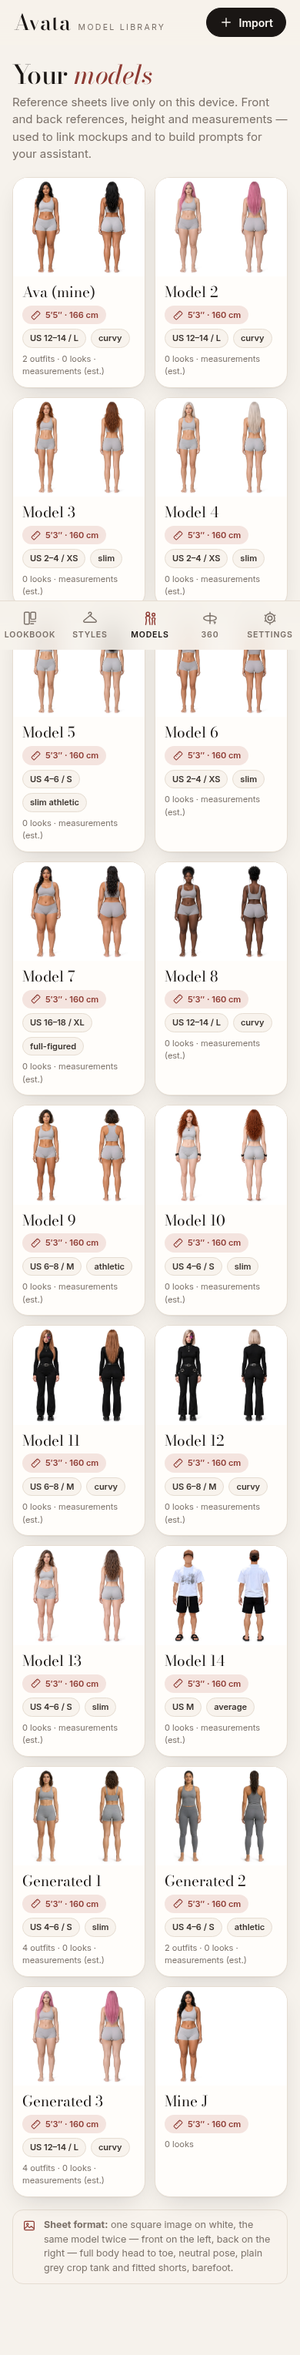
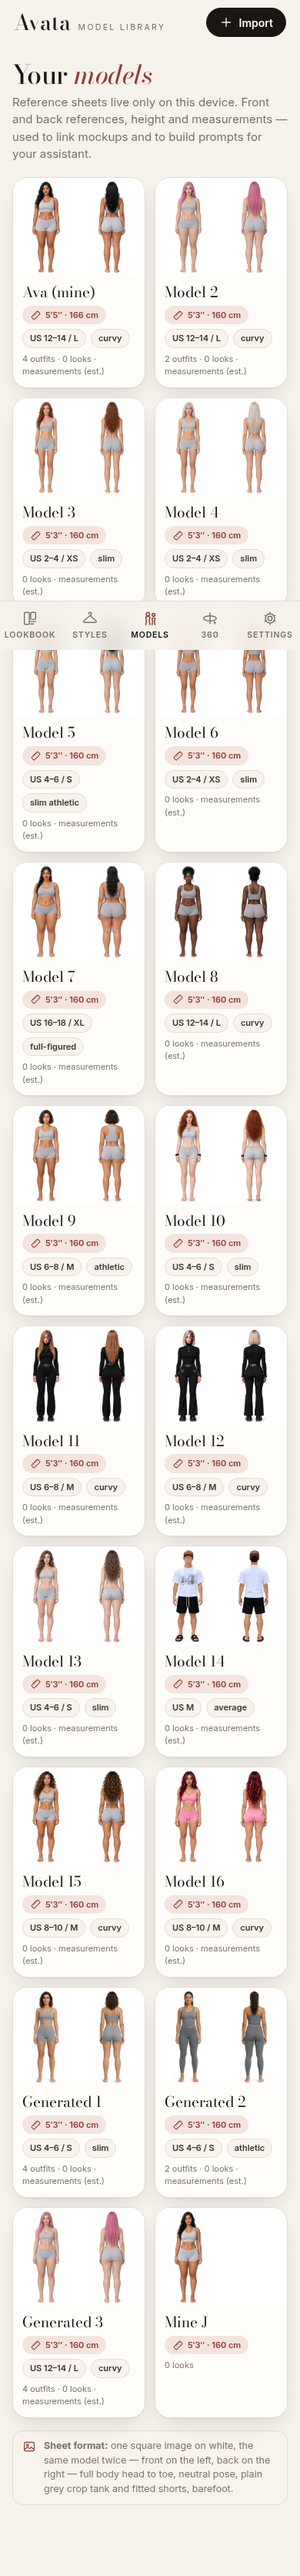
Model 1 gains Yoga set and Linen set (outfits Base, Tank & shorts, Yoga set, Linen set; assetRev a1d4c39dc847) and Model 2 gains Yoga set (outfits Base, Yoga set; assetRev d833e5ca404f) on their own records; existing installs refresh them in place, names and edits kept. Add starters Model 15 (starte

Changed region(s): [[0.0308, 0.0, 0.9538, 0.9627]]

diff --git a/js/starters.js b/js/starters.js
@@ -12,20 +12,28 @@ export const STARTERS = [
   {
     // re-added 2026-10-18 from Jordan's corrected 6-view sheet (real back three-quarter view); new id, so existing
     // installs gain her once via addNewStarters (the deleted old starter-model-5 is never brought back)
-    id: 'starter-exact-5', name: 'Model 1', file: 'exact-5', assetRev: 'b313fc006675', heightCm: 160, bodyType: 'curvy', size: '12–14 / L',
+    id: 'starter-exact-5', name: 'Model 1', file: 'exact-5', assetRev: 'a1d4c39dc847', heightCm: 160, bodyType: 'curvy', size: '12–14 / L',
     measurements: { bust: 40, waist: 32, hips: 44, inseam: 28 }, measureUnit: 'in', measurementsEstimated: true,
     note: 'Long wavy black hair, deep tan skin',
     // 2026-10-19 (Jordan): a second built-in outfit, Tank & shorts (generated with her own sheet as the reference); assetRev covers both
     outfits: [
       { id: 'base', name: 'Base', subtitle: 'Grey crop set', file: 'exact-5' },
       { id: 'tank-shorts', name: 'Tank & shorts', subtitle: 'Black tank · shorts · sneakers', file: 'exact-5-tank-shorts' },
+      // 2026-10-19 (Jordan): Generated 2's Yoga set and Generated 1's Linen set, generated on her own sheet
+      { id: 'yoga-set', name: 'Yoga set', subtitle: 'Rose yoga set', file: 'exact-5-yoga-set' },
+      { id: 'linen-set', name: 'Linen set', subtitle: 'Sage tank · linen pants', file: 'exact-5-linen-set' },
     ],
   },
   {
     // Models 6-16 added 2026-10-18 (8, 11, 15, 16 since removed) from Jordan's 6-view sheets (same pipeline as Model 1); existing installs gain them once
-    id: 'starter-exact-6', name: 'Model 2', file: 'exact-6', assetRev: '16bc8fba9dc6', heightCm: 160, bodyType: 'curvy', size: '12–14 / L',
+    id: 'starter-exact-6', name: 'Model 2', file: 'exact-6', assetRev: 'd833e5ca404f', heightCm: 160, bodyType: 'curvy', size: '12–14 / L',
     measurements: { bust: 40, waist: 31, hips: 44, inseam: 28 }, measureUnit: 'in', measurementsEstimated: true,
     note: 'Long straight pink hair, fair skin',
+    // 2026-10-19 (Jordan): Generated 2's Yoga set, generated on her own sheet; existing installs gain it in place (assetRev covers both)
+    outfits: [
+      { id: 'base', name: 'Base', subtitle: 'Grey crop set', file: 'exact-6' },
+      { id: 'yoga-set', name: 'Yoga set', subtitle: 'Rose yoga set', file: 'exact-6-yoga-set' },
+    ],
   },
   {
     id: 'starter-exact-7', name: 'Model 3', file: 'exact-7', assetRev: '5f4ee9be18ea', heightCm: 160, bodyType: 'slim', size: '2–4 / XS',
@@ -88,6 +96,17 @@ export const STARTERS = [
     id: 'starter-exact-22', name: 'Model 14', file: 'exact-22', assetRev: '7b1c9e05547b', heightCm: 160, bodyType: 'average', size: 'M',
     measurements: { bust: 40, waist: 32, hips: 39, inseam: 31 }, measureUnit: 'in', measurementsEstimated: true,
     note: 'Brown cap, white graphic tee, black shorts, slides (male model; face blurred in the sheet)',
+  },
+  // added 2026-10-19 from Jordan's 6-view sheets (same pipeline); new stable ids exact-23, 24 (15 and 16 stay retired), labels Model 15-16; existing installs gain them once
+  {
+    id: 'starter-exact-23', name: 'Model 15', file: 'exact-23', assetRev: 'd5c10514d239', heightCm: 160, bodyType: 'curvy', size: '8–10 / M',
+    measurements: { bust: 37, waist: 28, hips: 41, inseam: 29 }, measureUnit: 'in', measurementsEstimated: true,
+    note: 'Long curly brown hair with caramel highlights, tan skin, grey crop set',
+  },
+  {
+    id: 'starter-exact-24', name: 'Model 16', file: 'exact-24', assetRev: 'f8de9ba57c27', heightCm: 160, bodyType: 'curvy', size: '8–10 / M',
+    measurements: { bust: 37, waist: 28, hips: 41, inseam: 29 }, measureUnit: 'in', measurementsEstimated: true,
+    note: 'Long wavy burgundy hair with pink streaks, clear glasses, fair skin, pink crop set',
   },
   {
     // Generated 1 (added 2026-10-18): a generated fictional model with four built-in outfits (her own Generated section).

diff --git a/sw.js b/sw.js
@@ -3,7 +3,7 @@
 // offline fallback) so a new deploy is never served stale; big images/fonts are cache-first. Cross-origin requests
 // (only the optional BYOK APIs) are never touched. skipWaiting + clients.claim, so a new version takes over at once;
 // js/update.js then reloads the page when it's safe.
-const VERSION = '2026.10.19-053656-5664f6d';
+const VERSION = '2026.10.19-075841-c217703';
 const CACHE = `avata-${VERSION}`;
 const SHELL = [
   './', 'index.html', 'styles.css', 'manifest.webmanifest',
@@ -13,7 +13,7 @@ const SHELL = [
   'assets/samples/sketch-tank.svg', 'assets/samples/sketch-short.svg', 'assets/samples/sketch-set.svg',
   'assets/fonts/bodoni-moda.woff2', 'assets/fonts/bodoni-moda-italic.woff2',
   'icons/icon-192.png', 'icons/icon-512.png', 'icons/apple-touch-icon.png', 'icons/favicon-64.png',
-  ...[...[5, 6, 7, 9, 10, 12, 13, 14, 17, 18, 19, 20, 21, 22].map(n => `exact-${n}`), 'exact-5-tank-shorts', 'generated-1', 'generated-1-summer-denim', 'generated-1-sundress', 'generated-1-linen-set', 'generated-2', 'generated-2-yoga-set', 'generated-3', 'generated-3-turtleneck', 'generated-3-slip-dress', 'generated-3-tank-shorts'].flatMap(m => ['sheet', 'front', 'back', 'thumb'].map(k => `assets/models/${m}-${k}.webp`)),
+  ...[...[5, 6, 7, 9, 10, 12, 13, 14, 17, 18, 19, 20, 21, 22, 23, 24].map(n => `exact-${n}`), 'exact-5-tank-shorts', 'exact-5-yoga-set', 'exact-5-linen-set', 'exact-6-yoga-set', 'generated-1', 'generated-1-summer-denim', 'generated-1-sundress', 'generated-1-linen-set', 'generated-2', 'generated-2-yoga-set', 'generated-3', 'generated-3-turtleneck', 'generated-3-slip-dress', 'generated-3-tank-shorts'].flatMap(m => ['sheet', 'front', 'back', 'thumb'].map(k => `assets/models/${m}-${k}.webp`)),
 ];
 // cache:'reload' bypasses the HTTP cache (GitHub Pages sends max-age=600) so a new version never precaches old files
 self.addEventListener('install', e => { self.skipWaiting(); e.waitUntil(caches.open(CACHE).then(c => c.addAll(SHELL.map(u => new Request(u, { cache: 'reload' }))))); });

diff --git a/js/app.js b/js/app.js
@@ -10,7 +10,7 @@ import { renderSpin } from './spin-view.js';
 import { initUpdates } from './update.js';
 
 // VERSION is stamped automatically by the pre-commit hook (.githooks/pre-commit). Do not edit by hand.
-export const VERSION = '2026.10.19-053656-5664f6d';
+export const VERSION = '2026.10.19-075841-c217703';
 
 const TITLES = { looks: 'Lookbook', 'import-looks': 'Import mockups', styles: 'Catalog', style: 'Style', 'style-edit': 'Style', models: 'Model Library', model: 'Model', 'import-model': 'Import model', studio: 'Prompt builder', spin: '360 spin', settings: 'Settings' };
 const TAB_OF = { looks: 'looks', 'import-looks': 'looks', styles: 'styles', style: 'styles', 'style-edit': 'styles', models: 'models', model: 'models', 'import-model': 'models', studio: 'models', spin: 'spin', settings: 'settings' };

diff --git a/tools/e2e_starters.py b/tools/e2e_starters.py
@@ -2,7 +2,7 @@
 
 On 2026-10-18 Jordan removed Models 1-4, 8, 11, 15 and 16. The rest were renumbered by name only (stable ids exact-5, 6, 7,
 9, 10, 12, 13, 14 = Model 1-8; relabelStarters() renames default-named records once, user names kept) and exact-17 was added as
-Model 9, then exact-18..22 as Model 10-14. Shipped: Model 1-14 (Model 1 with 2 outfits: Base, Tank & shorts), Generated 1 (4 outfits), Generated 2 (2 outfits), Generated 3 (Model 2 in black, 4 outfits).
+Model 9, then exact-18..22 as Model 10-14, then exact-23, 24 as Model 15-16. Shipped: Model 1-16 (Model 1 with 4 outfits: Base, Tank & shorts, Yoga set, Linen set; Model 2 with Base, Yoga set), Generated 1 (4 outfits), Generated 2 (2 outfits), Generated 3 (Model 2 in black, 4 outfits).
 On 2026-10-19 the Photorealistic section was removed: Photoreal 1 (old Model 2) and Photoreal 2 are dropped once like the removed exact models
 (their app-seeded sample looks go, the user's own looks are kept detached); existing Model 1 records gain the Tank & shorts outfit in place (user edits kept). Every upgrade scenario checks that the removed starters' records are dropped once
 (even renamed ones), are never re-added, and that user-created models stay untouched; the user's own looks of a removed
@@ -24,7 +24,10 @@ H) Generated 2 release (1de7a72, the last one live): Models 10-14 (exact-18..22)
 I) Models 10-14 release (2e814c1): Generated 3 added once with 4 outfits; renamed Model 2 and user model
    untouched; model page outfit chips; relaunch idempotent; a deleted Generated 3 is never re-added.
 J) Generated 3 + Photoreal 2 release (5664f6d, the last one live): renamed Photoreal 1 and Photoreal 2 dropped once, a look on Photoreal 2
-   kept detached; renamed Model 1 gains Tank & shorts (name kept, model page chips); Generated 3 kept; idempotent; never re-added."""
+   kept detached; renamed Model 1 gains Tank & shorts (name kept, model page chips); Generated 3 kept; idempotent; never re-added.
+K) Model 1 Tank & shorts release (c217703, the last one live): Model 1 gains Yoga set + Linen set and Model 2 gains Yoga set in place
+   (renamed, edits kept), Models 15-16 (exact-23, 24) added once, everything else untouched.
+"""
 import hashlib, json, pathlib, re, shutil, socket, subprocess, sys, tempfile, time, io, tarfile
 from playwright.sync_api import sync_playwright
 
@@ -35,7 +38,7 @@ def site(ref):
   return d
 def sha(b): return hashlib.sha256(b).hexdigest()
 K = ('sheet', 'front', 'back', 'thumb')
-KEEP = [5, 6, 7, 9, 10, 12, 13, 14, 17, 18, 19, 20, 21, 22]; REMOVED = [1, 2, 3, 4, 8, 11, 15, 16]   # stable ids; KEEP is labelled Model 1-14 in this order
+KEEP = [5, 6, 7, 9, 10, 12, 13, 14, 17, 18, 19, 20, 21, 22, 23, 24]; REMOVED = [1, 2, 3, 4, 8, 11, 15, 16]   # stable ids; KEEP is labelled Model 1-14 in this order
 LABEL = {f'starter-exact-{n}': f'Model {i + 1}' for i, n in enumerate(KEEP)}
 OLD_DEFAULT = {f'starter-exact-{n}': f'Model {n}' for n in KEEP if n < 17}   # names before the relabel
 def relabeled(rec):   # what relabelStarters() makes of a stored record
@@ -44,15 +47,17 @@ REMOVED_IDS = [f'starter-exact-{n}' for n in REMOVED] + ['starter-photoreal-1', 
 NEW_EXACT = [f'starter-exact-{n}' for n in KEEP if n >= 17]   # added after the relabel: Model 9 (exact-17), Model 10-14 (exact-18..22)
 GEN_OUTFITS = [('base', 'Base', 'generated-1'), ('summer-denim', 'Summer denim', 'generated-1-summer-denim'), ('sundress', 'Sundress', 'generated-1-sundress'), ('linen-set', 'Linen set', 'generated-1-linen-set')]
 GEN2_OUTFITS = [('base', 'Base', 'generated-2'), ('yoga-set', 'Yoga set', 'generated-2-yoga-set')]
-M1_OUTFITS = [('base', 'Base', 'exact-5'), ('tank-shorts', 'Tank & shorts', 'exact-5-tank-shorts')]
+M1_OUTFITS = [('base', 'Base', 'exact-5'), ('tank-shorts', 'Tank & shorts', 'exact-5-tank-shorts'), ('yoga-set', 'Yoga set', 'exact-5-yoga-set'), ('linen-set', 'Linen set', 'exact-5-linen-set')]
+M2_OUTFITS = [('base', 'Base', 'exact-6'), ('yoga-set', 'Yoga set', 'exact-6-yoga-set')]
 GEN3_OUTFITS = [('base', 'Base', 'generated-3'), ('turtleneck', 'Turtleneck', 'generated-3-turtleneck'), ('slip-dress', 'Slip dress', 'generated-3-slip-dress'), ('tank-shorts', 'Tank & shorts', 'generated-3-tank-shorts')]
-FILES = [f'exact-{n}' for n in KEEP] + ['exact-5-tank-shorts'] + [o[2] for o in GEN_OUTFITS] + [o[2] for o in GEN2_OUTFITS] + [o[2] for o in GEN3_OUTFITS]
+FILES = [f'exact-{n}' for n in KEEP] + [o[2] for o in M1_OUTFITS[1:]] + [o[2] for o in M2_OUTFITS[1:]] + [o[2] for o in GEN_OUTFITS] + [o[2] for o in GEN2_OUTFITS] + [o[2] for o in GEN3_OUTFITS]
 NEW = {f'{m}-{k}': sha((ROOT / f'assets/models/{m}-{k}.webp').read_bytes()) for m in FILES for k in K}
 REVS = dict(re.findall(r"id: '(starter-[a-z]+-\d+)'.*?assetRev: '([0-9a-f]+)'", (ROOT / 'js/starters.js').read_text()))
 EXACT = [f'starter-exact-{n}' for n in KEEP]
 ALL_NEW = EXACT + ['starter-generated-1', 'starter-generated-2', 'starter-generated-3']
 LATER = [f'starter-exact-{n}' for n in KEEP if n >= 6]   # every kept exact starter after exact-5 (incl. new exact-17..22)
 KNOWN_AFTER = sorted(set(ALL_NEW) | set(REMOVED_IDS))   # removed ids stay known, so they are never re-added
+NEW_15_16 = {'starter-exact-23', 'starter-exact-24'}   # Models 15-16, added 2026-10-19 (every older install gains them once)
 UI_STARTERS = [f'Model {i + 1}' for i in range(len(KEEP))]
 assert sorted(REVS) == sorted(ALL_NEW), REVS
 for n in REMOVED: assert not (ROOT / f'assets/models/exact-{n}-front.webp').exists()
@@ -101,10 +106,16 @@ def m1_ok(M, prev=None):  # Model 1 = one record carrying Base + Tank & shorts (
   same = prev is None or {k: v for k, v in g.items() if k not in (*K, 'outfits', 'assetRev')} == {k: v for k, v in relabeled(prev).items() if k not in (*K, 'outfits', 'assetRev')}
   return (same and g.get('starter') is True and g.get('assetRev') == REVS['starter-exact-5'] and imgs_current(g, 'exact-5')
           and [[x.get('id'), x.get('name')] for x in o] == [[a, n] for a, n, _ in M1_OUTFITS] and all(imgs_current(x, f) for x, (_, _, f) in zip(o, M1_OUTFITS)))
+def m2_ok(M, prev=None):  # Model 2 = one record carrying Base + Yoga set (current images); an upgraded record keeps every other field
+  g = M.get('starter-exact-6', {}); o = g.get('outfits') or []
+  same = prev is None or {k: v for k, v in g.items() if k not in (*K, 'outfits', 'assetRev')} == {k: v for k, v in relabeled(prev).items() if k not in (*K, 'outfits', 'assetRev')}
+  return (same and g.get('starter') is True and g.get('assetRev') == REVS['starter-exact-6'] and imgs_current(g, 'exact-6')
+          and [[x.get('id'), x.get('name')] for x in o] == [[a, n] for a, n, _ in M2_OUTFITS] and all(imgs_current(x, f) for x, (_, _, f) in zip(o, M2_OUTFITS)))
 def no_photoreal(M, L=None):  # Photoreal 1-2 gone; their app-seeded sample looks gone
   return not any('photoreal' in k for k in M) and (L is None or not any(k.startswith('sample-look-') for k in L))
-def kept(M, before, f=lambda v: v):  # every surviving record unchanged (relabel aside), except Model 1, which only gains her outfit
-  return all(M[k] == f(v) for k, v in before.items() if k not in REMOVED_IDS and k != 'starter-exact-5') and ('starter-exact-5' not in before or m1_ok(M, before['starter-exact-5']))
+def kept(M, before, f=lambda v: v):  # every surviving record unchanged (relabel aside), except Models 1 and 2, which only gain their outfits
+  return (all(M[k] == f(v) for k, v in before.items() if k not in REMOVED_IDS and k not in ('starter-exact-5', 'starter-exact-6'))
+          and ('starter-exact-5' not in before or m1_ok(M, before['starter-exact-5'])) and ('starter-exact-6' not in before or m2_ok(M, before['starter-exact-6'])))
 def ui_names(pg, base):
   pg.goto(base + '#/models'); pg.wait_for_selector('.lib-card'); pg.wait_for_timeout(500); return pg.locator('.lib-card .nm').all_inner_texts()
 
@@ -368,7 +379,7 @@ try:
     check('I_old_install_has_no_generated3', 'starter-generated-3' not in before['models'] and len(before['models']) == 18)
     deploy(I); pg.goto(BASE); pg.reload(); pg.wait_for_selector('#app, body'); pg.wait_for_timeout(1000); pg.wait_for_timeout(3000)
     names = ui_names(pg, BASE); after = pg.evaluate(SNAP); M = after['models']
-    check('I_generated3_added_once_with_4_outfits_photoreal_dropped', gen3_ok(M) and no_photoreal(M) and set(M) == (set(before['models']) - set(REMOVED_IDS)) | {'starter-generated-3'})
+    check('I_generated3_added_once_with_4_outfits_photoreal_dropped', gen3_ok(M) and no_photoreal(M) and set(M) == (set(before['models']) - set(REMOVED_IDS)) | {'starter-generated-3'} | NEW_15_16)
     check('I_existing_records_untouched_incl_model2', kept(M, before['models']) and M['starter-exact-6']['name'] == 'Pink (mine)')
     R['I_ui_names'] = names
     check('I_ui_order', names == UI_STARTERS[:1] + ['Pink (mine)'] + UI_STARTERS[2:] + ['Generated 1', 'Generated 2', 'Generated 3', 'Mine I'])
@@ -402,7 +413,7 @@ try:
     check('J_old_install_has_photoreal_1_2', {'starter-photoreal-1', 'starter-photoreal-2', 'starter-generated-3'} <= set(before['models']) and len(before['models']) == 20 and not before['models']['starter-exact-5'].get('outfits'))
     deploy(J); pg.goto(BASE); pg.reload(); pg.wait_for_timeout(3500)
     names = ui_names(pg, BASE); after = pg.evaluate(SNAP); M, L = after['models'], after['looks']
-    check('J_photoreal_1_2_dropped_once_even_renamed', no_photoreal(M, L) and not any(m.get('name') == 'Curls (mine)' for m in M.values()) and set(M) == set(before['models']) - {'starter-photoreal-1', 'starter-photoreal-2'})
+    check('J_photoreal_1_2_dropped_once_even_renamed', no_photoreal(M, L) and not any(m.get('name') == 'Curls (mine)' for m in M.values()) and set(M) == (set(before['models']) - {'starter-photoreal-1', 'starter-photoreal-2'}) | NEW_15_16)
     check('J_look_on_photoreal2_kept_detached', {**L['gen-on-p2'], 'modelId': 0} == {**before['looks']['gen-on-p2'], 'modelId': 0} and L['gen-on-p2']['modelId'] is None)
     check('J_generated3_kept_with_4_outfits', gen3_ok(M) and M['starter-generated-3'] == before['models']['starter-generated-3'])
     check('J_model1_gains_tank_shorts_keeps_edits', m1_ok(M, before['models']['starter-exact-5']) and M['starter-exact-5']['name'] == 'Ava (mine)' and M['starter-exact-5']['heightCm'] == 166)
@@ -416,12 +427,45 @@ try:
     pg.click('#mOutfits .oc[data-i="1"]'); pg.wait_for_timeout(400)
     sel = pg.evaluate("""async () => { const sha = async u => { const b = await (await fetch(u)).arrayBuffer(); return [...new Uint8Array(await crypto.subtle.digest('SHA-256', b))].map(x => x.toString(16).padStart(2, '0')).join(''); };
       return [await sha(document.getElementById('mFront').src), await sha(document.getElementById('mBack').src), document.querySelector('#mOutfits .oc[aria-checked=true]').textContent.trim()]; }""")
-    check('J_model1_detail_outfit_switch', R['J_detail_chips'] == ['Base', 'Tank & shorts'] and sel == [NEW['exact-5-tank-shorts-front'], NEW['exact-5-tank-shorts-back'], 'Tank & shorts'])
+    check('J_model1_detail_outfit_switch', R['J_detail_chips'] == [o[1] for o in M1_OUTFITS] and sel == [NEW['exact-5-tank-shorts-front'], NEW['exact-5-tank-shorts-back'], 'Tank & shorts'])
     pg.screenshot(path=str(ROOT / 'screenshots/starters-model-1-tank-shorts.png'))
     pg.goto(BASE + '#/models'); pg.wait_for_selector('.lib-card'); pg.wait_for_timeout(800)
     for _ in range(3): pg.reload(); pg.wait_for_selector('.lib-card'); pg.wait_for_timeout(1500)
     check('J_idempotent_never_readded', pg.evaluate(SNAP) == after and ui_names(pg, BASE) == names)
     pg.screenshot(path=str(ROOT / 'screenshots/starters-after-photoreal-removal.png'), full_page=True)
+    c.close()
+    # ---------------- K) Model 1 Tank & shorts release (c217703, live before this change) → Model 1 gains Yoga set + Linen set, Model 2 gains Yoga set, in place, edits kept ----------------
+    Kd = site('c217703'); srv, BASE = serve(Kd); servers.append(srv); time.sleep(0.5)
+    c, pg = ctx(b)
+    pg.goto(BASE); pg.wait_for_function("navigator.serviceWorker.controller"); pg.wait_for_timeout(1500)
+    pg.goto(BASE + '#/models'); pg.wait_for_function("document.querySelectorAll('.lib-card').length >= 17"); pg.wait_for_timeout(500)
+    pg.evaluate("""async idb => { const f = eval(idb);
+      const m1 = await f(['models', 'get', 'starter-exact-5']); m1.name = 'Ava (mine)'; m1.heightCm = 166; m1.note = 'my note'; await f(['models', 'put', m1]);
+      const m2 = await f(['models', 'get', 'starter-exact-6']); m2.name = 'Pink (mine)'; m2.heightCm = 171; await f(['models', 'put', m2]);
+      await f(['looks', 'put', { id: 'gen-on-m2', image: m2.front, thumb: m2.thumb, modelId: 'starter-exact-6', styleIds: [], view: 'front', title: 'Render on Model 2', tags: [], favorite: true, source: 'generated', createdAt: Date.now() }]);
+      await f(['models', 'put', { id: 'user-model-k', name: 'Mine K', front: m1.front, back: null, sheet: null, thumb: m1.thumb, heightCm: 160, createdAt: Date.now(), starter: false }]); }""", IDB)
+    before = pg.evaluate(SNAP); BM = before['models']
+    check('K_old_install_model1_2_outfits_model2_none', [o.get('id') for o in BM['starter-exact-5'].get('outfits') or []] == ['base', 'tank-shorts'] and not BM['starter-exact-6'].get('outfits') and len(BM) == 18)
+    deploy(Kd); pg.goto(BASE); pg.reload(); pg.wait_for_timeout(3500)
+    names = ui_names(pg, BASE); after = pg.evaluate(SNAP); M, L = after['models'], after['looks']
+    check('K_model1_gains_yoga_linen_keeps_edits', m1_ok(M, BM['starter-exact-5']) and M['starter-exact-5']['name'] == 'Ava (mine)' and M['starter-exact-5']['heightCm'] == 166 and M['starter-exact-5']['note'] == 'my note')
+    check('K_model2_gains_yoga_keeps_edits', m2_ok(M, BM['starter-exact-6']) and M['starter-exact-6']['name'] == 'Pink (mine)' and M['starter-exact-6']['heightCm'] == 171)
+    check('K_models_15_16_added_once', {'starter-exact-23', 'starter-exact-24'} - set(BM) == {'starter-exact-23', 'starter-exact-24'} and M['starter-exact-23']['name'] == 'Model 15' and M['starter-exact-24']['name'] == 'Model 16' and imgs_current(M['starter-exact-23'], 'exact-23') and imgs_current(M['starter-exact-24'], 'exact-24'))
+    check('K_same_records_others_untouched', set(M) == set(BM) | {'starter-exact-23', 'starter-exact-24'} and kept(M, BM) and M['user-model-k'] == BM['user-model-k'] and L == before['looks'])
+    R['K_ui_names'] = names; check('K_ui_order', names == ['Ava (mine)', 'Pink (mine)'] + UI_STARTERS[2:] + ['Generated 1', 'Generated 2', 'Generated 3', 'Mine K'])
+    for mid, outs, shot in (('starter-exact-5', M1_OUTFITS, 'starters-model-1-yoga-linen'), ('starter-exact-6', M2_OUTFITS, 'starters-model-2-yoga')):
+      pg.goto(BASE + '#/model/' + mid); pg.wait_for_selector('#mOutfits'); pg.wait_for_timeout(600)
+      chips = [x.strip() for x in pg.locator('#mOutfits .oc').all_inner_texts()]; R[f'K_{mid}_chips'] = chips; bad = []
+      for i, (oid, nm, f) in enumerate(outs):
+        pg.click(f'#mOutfits .oc[data-i="{i}"]'); pg.wait_for_timeout(400)
+        sel = pg.evaluate("""async () => { const sha = async u => { const b = await (await fetch(u)).arrayBuffer(); return [...new Uint8Array(await crypto.subtle.digest('SHA-256', b))].map(x => x.toString(16).padStart(2, '0')).join(''); };
+          return [await sha(document.getElementById('mFront').src), await sha(document.getElementById('mBack').src), document.querySelector('#mOutfits .oc[aria-checked=true]').textContent.trim()]; }""")
+        if sel != [NEW[f'{f}-front'], NEW[f'{f}-back'], nm]: bad.append(oid)
+        if oid == 'yoga-set': pg.screenshot(path=str(ROOT / f'screenshots/{shot}.png'))
+      check(f'K_{mid}_detail_outfit_switch', chips == [o[1] for o in outs] and not bad)
+    pg.goto(BASE + '#/models'); pg.wait_for_selector('.lib-card'); pg.wait_for_timeout(800)
+    for _ in range(3): pg.reload(); pg.wait_for_selector('.lib-card'); pg.wait_for_timeout(1500)
+    check('K_idempotent', pg.evaluate(SNAP) == after)
     c.close()
     b.close()
 finally:

diff --git a/tools/e2e_spin.py b/tools/e2e_spin.py
@@ -12,7 +12,7 @@ ROOT = pathlib.Path(__file__).resolve().parent.parent; OUT = ROOT / 'screenshots
 SRC = pathlib.Path('/workspace/shared/model-gallery/assets/exact-5/base/hi')   # first remaining exact model (Model 1 was removed 2026-10-18)
 TMP = pathlib.Path(tempfile.mkdtemp(prefix='spin-'))
 random.seed(7)
-KEEP = [5, 6, 7, 9, 10, 12, 13, 14, 17, 18, 19, 20, 21, 22]   # exact model ids after the 2026-10-18 removal + new exact-17..22; labelled Model 1-14 in this order
+KEEP = [5, 6, 7, 9, 10, 12, 13, 14, 17, 18, 19, 20, 21, 22, 23, 24]   # exact model ids after the 2026-10-18 removal + new exact-17..22; labelled Model 1-14 in this order
 ANG = ['000', '045', '090', '135', '180', '225', '270', '315']
 
 # Simulate hand-held photos: the same exact frames, re-shot at different distances / positions on a bigger canvas.
@@ -89,7 +89,7 @@ with sync_playwright() as p:
   R['lineup_ok'] = ([r[0] for r in R['rows'][0]] == [f'Model {i + 1}' for i in range(len(KEEP))] and [r[1] for r in R['rows'][0]] == ['Wavy black hair',
                     'Pink hair', 'Wavy auburn hair', 'Silver-platinum hair', 'Curly black hair',
                     'Black high bun', 'Wavy black braids', 'Curly high puff', 'Short wavy bob',
-                    'Long curly red hair', 'Long copper hair', 'Blonde bob', 'Long wavy brown hair', 'Brown cap']
+                    'Long curly red hair', 'Long copper hair', 'Blonde bob', 'Long wavy brown hair', 'Brown cap', 'Curly brown hair', 'Burgundy-pink hair']
                     and R['photo_gone'] == [False, ['Generated'], 0]
                     and R['rows'][1] == [['Generated 1', 'Wavy chestnut bob'], ['Generated 2', 'Sleek ponytail'], ['Generated 3', 'Pink hair']] and R['gen_heading'] == ['Generated', True, True])
   spun, bad = {}, []
@@ -108,8 +108,8 @@ with sync_playwright() as p:
     img_ok = pg.evaluate("(() => { const a = document.querySelector('.sv-a'); return a.complete && a.naturalWidth === 600 && a.naturalHeight === 1024; })()")
     spun[gid] = {'frames': st(pg, 'S.frames.length'), 'frame': [f0, f1], 'angle': [round(a0), round(a1)], 'selected': sel == gid, 'in_view': inview, 'img': img_ok}
     if not (f0 != f1 and sel == gid and inview and img_ok): bad.append(gid)
-    if not gid.startswith('gallery:generated-') and gid != 'gallery:exact-5' and pg.evaluate("!document.querySelector('.sv-outfits').hidden || document.querySelectorAll('.sv-oc').length > 0"): bad.append(gid + ':has-outfit-chips')
-  R['gallery_spins'] = spun; R['gallery_all_spin'] = not bad and len(gids) == 17; R['gallery_bad'] = bad
+    if not gid.startswith('gallery:generated-') and gid not in ('gallery:exact-5', 'gallery:exact-6') and pg.evaluate("!document.querySelector('.sv-outfits').hidden || document.querySelectorAll('.sv-oc').length > 0"): bad.append(gid + ':has-outfit-chips')
+  R['gallery_spins'] = spun; R['gallery_all_spin'] = not bad and len(gids) == 19; R['gallery_bad'] = bad
 
   # ---- Generated 1: her 4 built-in outfits as small chips on the viewer; switching keeps the angle at all 8 angles ----
   pg.evaluate("document.querySelector('.sp-item[data-id=\"gallery:generated-1\"]').click()")

diff --git a/README.md b/README.md
@@ -76,3 +76,5 @@ Starter re-sync e2e: `python3 tools/e2e_starters.py` (installs the previous rele
 **Generated 3 and Photoreal 2 (2026-10-19):** `starter-generated-3` (Generated section, after Generated 2) is Model 2 (pink hair; `starter-exact-6` unchanged) in four built-in outfits: Base (her grey sheet), Turtleneck, Slip dress, Tank & shorts (all black; files `generated-3`, `generated-3-turtleneck`, `generated-3-slip-dress`, `generated-3-tank-shorts`). `starter-photoreal-2` (Photorealistic section, after Photoreal 1) is the same model: a separate starter record that points at the same files and `assetRev` (no duplicate images). Both are added once to existing installs via `knownStarters`.
 
 **Model 1 outfit + Photorealistic section removed (2026-10-19):** `starter-exact-5` (Model 1) gains a second built-in outfit on her own record, Tank & shorts (`outfits[]`: Base `exact-5`, Tank & shorts `exact-5-tank-shorts`; assetRev bumped, so existing installs refresh her in place and keep the user's edits). The Photorealistic section was removed: `starter-photoreal-1` and `starter-photoreal-2` are in `REMOVED_STARTER_IDS`, so `removeStarters()` (second round, kv `removed-starters-2026-10-19`) drops their starter records once, removes Photoreal 1's app-seeded sample looks, keeps the user's own looks detached, and never re-adds them. User models are untouched. Photoreal 1's images are archived outside the repo; Generated 3 keeps the files Photoreal 2 shared. The 360 tab has no Photorealistic row; old `gallery:photoreal-*` / `gallery:model-2` links fall back to Model 1.
+
+**Yoga / Linen outfits and Models 15-16 (2026-10-19):** Model 1 (`starter-exact-5`) gains Yoga set (`exact-5-yoga-set`, after Generated 2's) and Linen set (`exact-5-linen-set`, after Generated 1's): outfits Base, Tank & shorts, Yoga set, Linen set; assetRev a1d4c39dc847. Model 2 (`starter-exact-6`) gains `outfits[]` Base + Yoga set (`exact-6-yoga-set`); assetRev d833e5ca404f. Existing installs refresh both in place via `refreshedModel` (names and edits kept). New exact starters `starter-exact-23` (Model 15, curly brown hair, grey set) and `starter-exact-24` (Model 16, burgundy/pink hair, glasses, pink set) follow Model 14; existing installs gain them once (ids 15/16 stay retired). All new files are in the `sw.js` precache. e2e scenario K covers the upgrade from the c217703 release.
